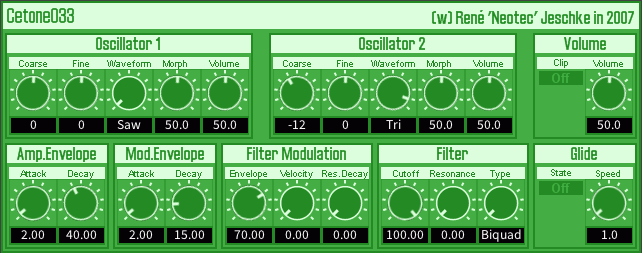
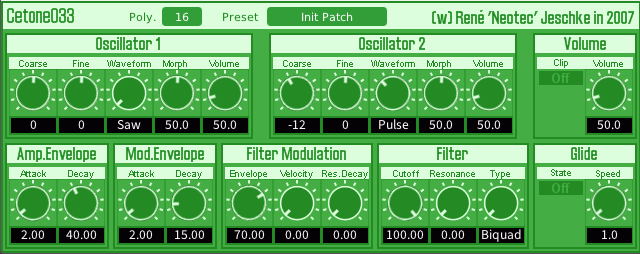
Update README & screenshot

Changed region(s): [[0.0, 0.0, 1.0, 1.0], [0.0, 0.7747, 0.0312, 0.83]]

diff --git a/README.md b/README.md
@@ -1,15 +1,19 @@
 # Cetone033
 
-Cetone033 is a analogue-style bassline synthesizer by Neotec Software. Though it has been designed for basslines, it's also a chiptune style synthesizer. **Originally written by [René Jeschke](https://github.com/rjeschke).**
+Cetone033 is a analogue-style bassline synthesizer, originally developed by Neotec Software. Though it has been designed for basslines, it's also a chiptune style synthesizer. **Originally written by [René Jeschke](https://github.com/rjeschke).**
 
 Sadly, Cetone Synth series had been discontinued for more than 12 years (since 2012), and it only supported VST 2.4. Original project is [here](https://github.com/rjeschke/cetonesynths).
 
-**But now, I (AnClark) brings it to life again, by re-implementing those plugins to [DISTRHO Plugin Framework](https://distrho.github.io/DPF/).** It now runs well on most modern platforms.
+**But now, I (AnClark) brings it to life again, by re-implementing those plugins to [DISTRHO Plugin Framework](https://distrho.github.io/DPF/).** It now runs well on most modern platforms, with advanced features and multi-format support.
+
+Original Cetone033 is a monophonic synthesizer. Now I implemented polyphony support, and this version supports up to 16 voices.
 
 ![Screenshot of Cetone033](Screenshot.png)
 
 ## Features
 
+- **16-voice polyphony synthesizer**
+  - Configurable polyphony (from monopoly to 16 voices)
 - **2 oscillators with 3 chiptune-style waveforms**
   - Waveforms: Saw, Square (pulse), Triangle
 - **Analog-modelled filter**
@@ -23,6 +27,9 @@ Sadly, Cetone Synth series had been discontinued for more than 12 years (since 2
   - Supports: Windows, macOS, Linux
 - **Multi-format**
   - Provides: VST 2.4, VST3, LV2, CLAP, Standalone (JACK only)
+- **Preset manager**
+  - Save and load presets in JSON format
+  - Preset manager menu with bank and program support
 
 ## How To Build
 
@@ -88,6 +95,21 @@ cmake --build build
 
 Built plug-ins reside in `build/bin`. Copy plugins to your DAW's search paths.
 
+## Build Options
+
+You can also specify some build options to enable or disable features (via `-D` flag in CMake). These options are listed below:
+
+| Option | Description | Default |
+| --- | --- | --- |
+| `CETONE_ENABLE_POLYPHONY` | Enable polyphony support. If disabled, plugin will be monophonic, which is original Cetone033's behavior. | `ON` |
+| `CETONE_ALLOW_VOLUME_BOOSTING` | Allow volume boosting when polyphony is enabled.<br>This enables output normalization as well, in order to prevent overflow. | `ON` |
+
+## Notices about Polyphony and Presets
+
+- **Monopoly builds (`CETONE_ENABLE_POLYPHONY=OFF`) is NOT recommended**, and only for developement purpose (e.g. A/B test with original Cetone033). You can easily switch to monopoly mode on polyphonic builds by setting polyphony to 1 voice in plugin's UI.
+- Only polyphony mode supports volume boosting.
+- Presets in polyphony builds are not compatible with monopoly builds, and vice versa. You need to use different preset banks for different builds.
+
 ## License
 
 - [René's original repo](https://github.com/rjeschke/cetonesynths) is provided 'as is' and license free for public use.
@@ -96,4 +118,4 @@ Built plug-ins reside in `build/bin`. Copy plugins to your DAW's search paths.
 ## Credits
 
 - [René Jeschke](https://github.com/rjeschke) - Original author
-- [AnClark Liu](https://github.com/AnClark) - Maintainer of this repository. Re-implemented Cetone033 to DPF.
+- [AnClark Liu](https://github.com/AnClark) - Maintainer of this repository. Re-implemented Cetone033 to DPF, and added new features.
